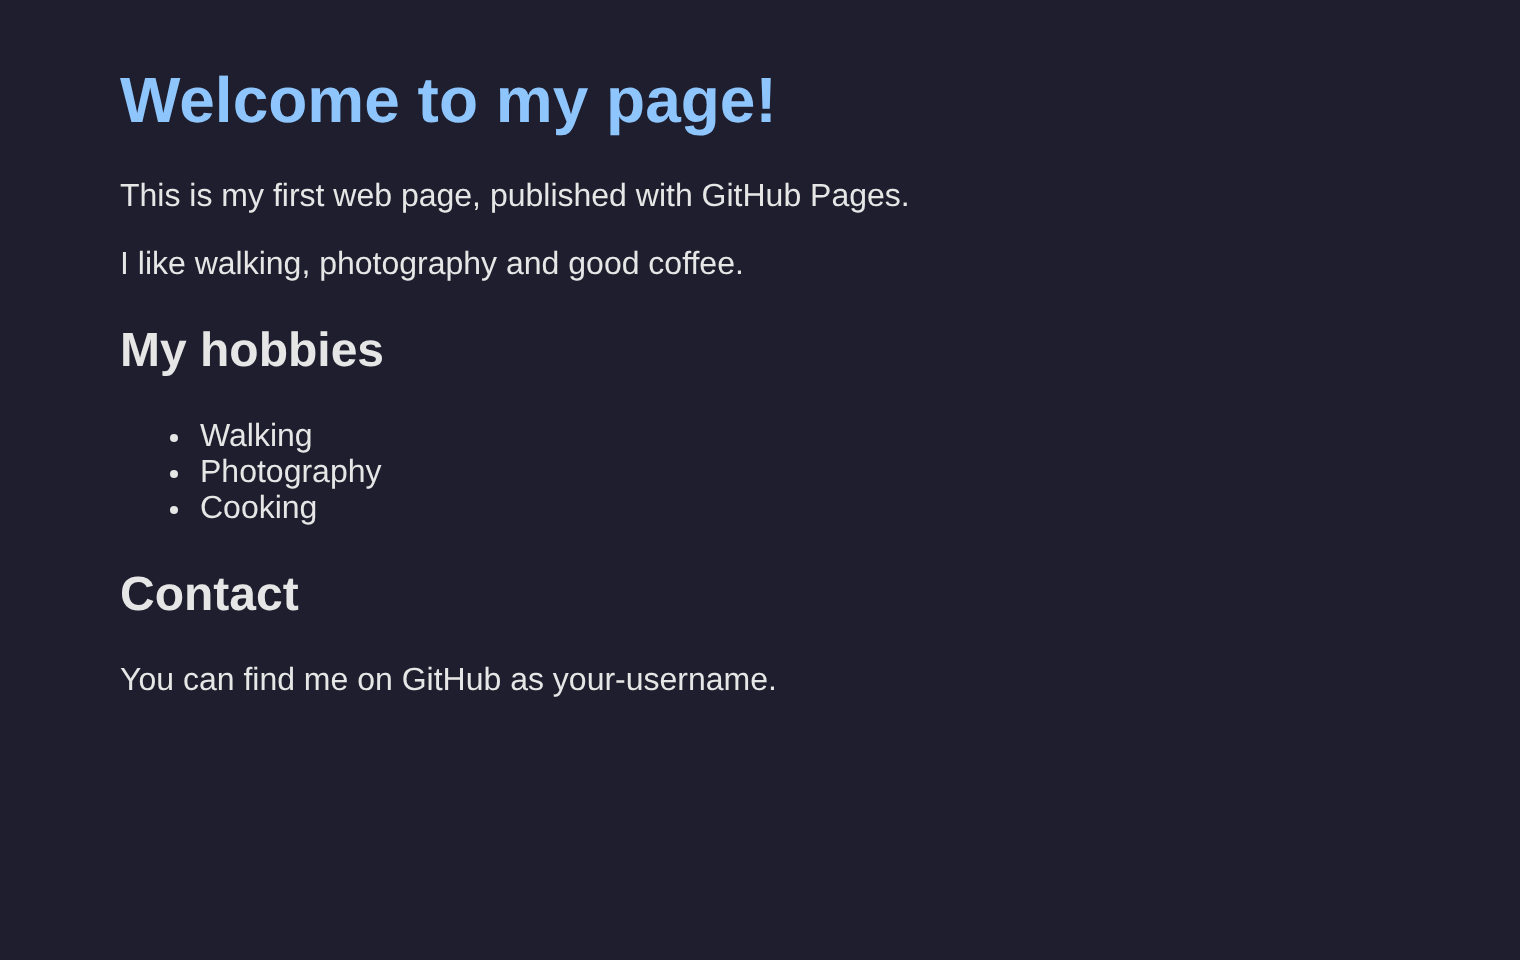
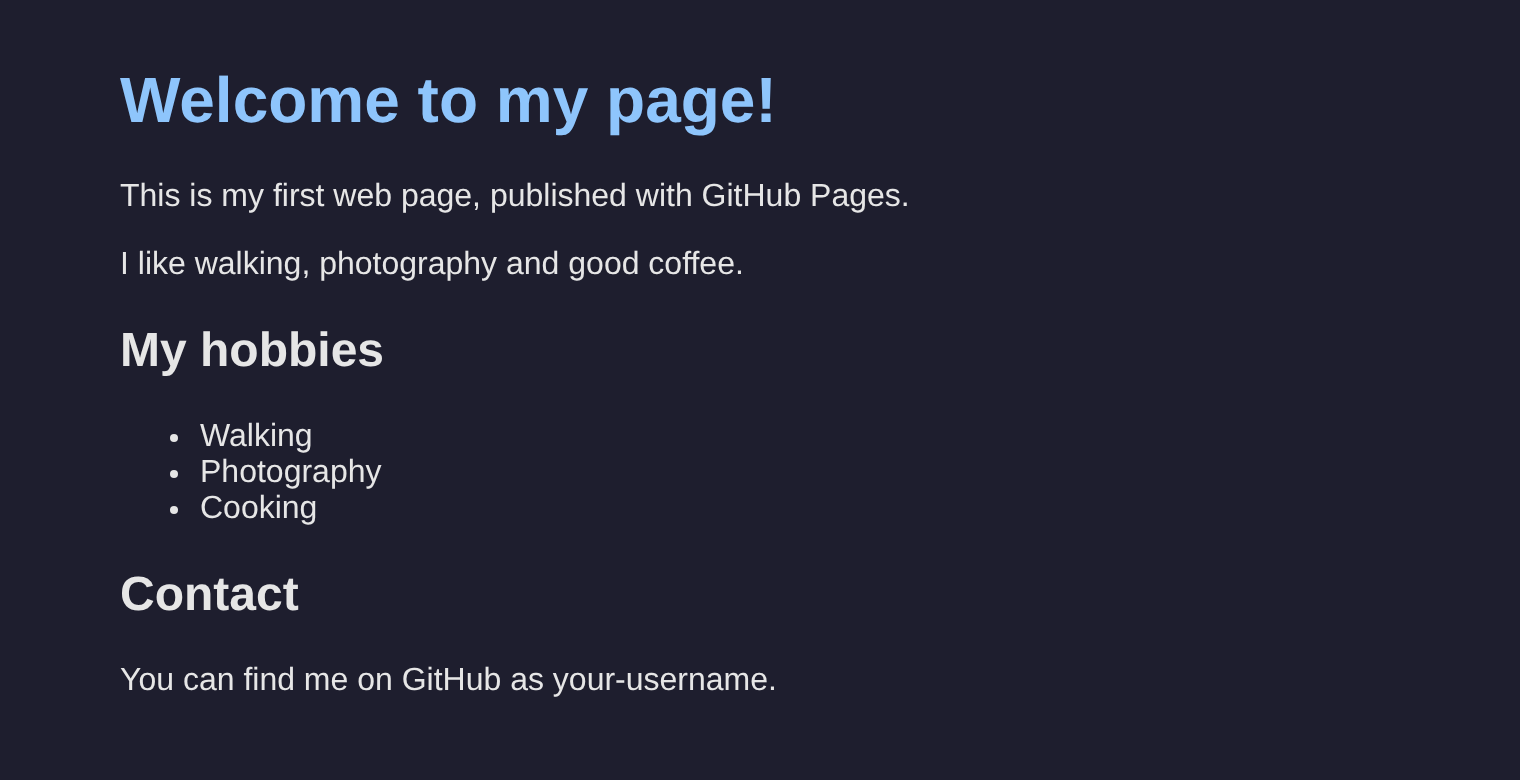
WIP: Git series checks, handover and translation guide
tools/check.mjs compares each Chinese page with the English one (blocks,
ids, figures, tabs, quiz answers) and checks links; notes/TRANSLATION.md
gives the rules and terms for the Chinese edition; HANDOVER.md explains
the tools. The troubleshooting examples run in a sandbox of their own;
Lesson 1 has a summary; status sections are coloured in any output.

Claude-Session: https://claude.ai/code/session_01KrzjB21B1GFMGN5fyNzMdb

Changed region(s): [[0.0618, 0.0615, 0.5875, 0.4], [0.0618, 0.4308, 0.4947, 0.8], [0.0618, 0.8615, 0.5257, 0.8923]]

diff --git a/tutorial-sources/git/tools/replay.py b/tutorial-sources/git/tools/replay.py
@@ -2,7 +2,7 @@
 
     python3 tools/replay.py              check: report each block whose output differs
     python3 tools/replay.py --update     write the real outputs into the English sources
-    python3 tools/replay.py --keep       keep the sandbox afterwards and print where it is
+    python3 tools/replay.py --keep       keep the sandboxes afterwards (/tmp/gitreplay, /tmp/gitreplay-trouble)
     python3 tools/replay.py --lessons 3-5  stop after lesson 5 (lessons always start from 2)
 
 What it runs, in this order, from src/en/lesson_02.md to the last lesson:
@@ -53,11 +53,11 @@ SHOWN_HOME = '/Users/you'
 
 
 class Sandbox:
-    def __init__(self, keep=False):
+    def __init__(self, keep=False, name='gitreplay'):
         # A fixed place, not a random temporary folder: `git pull` writes the remote's address
         # into its merge message, so the path must be the same on every run and every machine
-        # for the commit hashes to be.
-        self.base = os.environ.get('REPLAY_BASE', '/tmp/gitreplay')
+        # for the commit hashes to be. The lessons and the troubleshooting page each have their own.
+        self.base = os.path.join(os.environ.get('REPLAY_TMP', '/tmp'), name)
         shutil.rmtree(self.base, ignore_errors=True)
         os.makedirs(self.base)
         self.keep = keep
@@ -503,7 +503,7 @@ def main():
     # the troubleshooting page sets up each of its examples itself, in a sandbox of its own
     trouble = os.path.join(SRC, 'troubleshooting.md')
     if os.path.exists(trouble) and last >= 11:
-        box = Sandbox(keep=False)
+        box = Sandbox(keep=args.keep, name='gitreplay-trouble')
         try:
             box.next_day()
             replay_file(box, trouble, run)

diff --git a/tutorial-sources/git/notes/TRANSLATION.md b/tutorial-sources/git/notes/TRANSLATION.md
@@ -1,0 +1,116 @@
+# Translating the Git series into Simplified Chinese
+
+The Chinese edition is a faithful, fluent translation of the English one, for the same readers:
+complete beginners. It is not a summary: every step, explanation, box, table and quiz question is
+translated. It follows the AI series' `TRANSLATION.md` where this file does not say otherwise.
+
+## 1. What stays exactly as it is
+
+`node tools/check.mjs` compares each Chinese page with the English one and fails if these differ:
+
+- every ` ```terminal ` and ` ```file ` block, including its first line (`terminal norun`,
+  `file index.html check`, ...). Commands, Git's output, file contents: all byte-identical.
+  Git's own messages stay in English in the text too, when quoted in prose: write
+  “working tree clean”（工作区干净）, quoting the English and explaining it in Chinese;
+- every `<!-- replay: ... -->` comment;
+- every `## ... {#id}` id, and the order of the sections;
+- `::: figure id=...` and `::: widget name=...`, in the same order (the caption inside is
+  translated; for an `image=` figure, the `alt="..."` text is translated, `url=` is not);
+- the OS tab names: `::: tab Windows`, `::: tab macOS`, `::: tab Linux`;
+- the quiz: same questions in the same order, the same option marked `[x]`; questions, options and
+  explanations are translated;
+- the number of `::: trouble` boxes;
+- the front matter field `minutes`, and the number of `goals`.
+
+Links between the series' pages change language: `lesson_04_EN.html` becomes `lesson_04_ZH.html`,
+`troubleshooting_EN.html` becomes `troubleshooting_ZH.html`, `cheatsheet_EN.html` becomes
+`cheatsheet_ZH.html`. External links stay, except where an official Chinese version exists: the
+Pro Git book is `https://git-scm.com/book/zh/v2`.
+
+## 2. Labels on the screen
+
+Readers' screens show GitHub's website in English, and VS Code in English unless they installed
+the Chinese language pack. So:
+
+- keep the English label in bold, and give a Chinese gloss in full-width brackets the first time
+  it appears in a lesson: **New repository**（新建仓库）, **File**（文件）> **Open Folder...**（打开文件夹）.
+  After that, the English label alone;
+- quoted messages from GitHub or VS Code stay in English, with a translation the first time:
+  “Do you trust the authors of the files in this folder?”（你信任此文件夹中文件的作者吗？）
+
+## 3. Terms
+
+Use these everywhere. At a term's first use in a lesson, add the English in brackets:
+暂存区（staging area）. After that, Chinese only.
+
+| English | 中文 |
+|---|---|
+| repository | 仓库 |
+| commit (noun and verb) | 提交 |
+| snapshot | 快照 |
+| hash | 哈希值 |
+| branch | 分支 |
+| merge | 合并 |
+| merge commit | 合并提交 |
+| fast-forward | 快进 |
+| merge conflict | 合并冲突 |
+| working folder | 工作文件夹 |
+| staging area | 暂存区 |
+| untracked / tracked | 未跟踪 / 已跟踪 |
+| staged / modified | 已暂存 / 已修改 |
+| remote | 远程仓库 |
+| push | 推送 |
+| pull | 拉取 |
+| fetch | 获取 |
+| clone | 克隆 |
+| pull request | 拉取请求 |
+| fork | 复刻 |
+| collaborator | 协作者 |
+| review | 审查 |
+| undo | 撤销 |
+| revert (`git revert`) | 还原 |
+| reset (`git reset`) | 重置 |
+| amend (`--amend`) | 修改上一次提交 |
+| reflog | reflog（引用日志） |
+| ignore / `.gitignore` | 忽略 / `.gitignore` |
+| terminal | 终端 |
+| prompt | 提示符 |
+| command | 命令 |
+| folder / home folder | 文件夹 / 主文件夹 |
+| path | 路径 |
+| editor | 编辑器 |
+| sign in / authorise | 登录 / 授权 |
+| credential | 凭据 |
+| noreply address | noreply 地址 |
+| cheat sheet | 速查表 |
+| troubleshooting | 问题排查 |
+| glossary | 术语表 |
+
+Names stay in English: Git, GitHub, GitHub Pages, GitHub CLI, VS Code, Git Bash, Git Credential
+Manager, `main`, `origin`, `HEAD`, README, Markdown, HTML.
+
+## 4. Style
+
+- Natural, friendly Chinese for beginners, as a good Chinese tutorial would write it, not word for
+  word. Use 你. Keep the English edition's short sentences and direct instructions.
+- Full-width punctuation in Chinese text: ，。：；？！“”（）、. Half-width inside code, commands,
+  numbers and English words.
+- A space between Chinese characters and Latin letters or digits: 运行 `git status` 命令；第 3 课；
+  40 分钟. No space next to full-width punctuation.
+- Keyboard keys stay as `<kbd>Ctrl</kbd>` etc.
+- Lesson titles are short: "Your first repository" → 你的第一个仓库.
+- The page chrome (box labels such as 提示, 注意, 如果出了问题, buttons, "Lesson") is added by the
+  build; do not add it.
+- A Chinese page may add a short sentence of its own where Chinese readers need it (for example,
+  that Git may print some messages in Chinese on a Chinese system, or that they may write their
+  page in Chinese but should copy the English text first so their outputs match). It may not add
+  or remove blocks, boxes, tabs, figures or quiz questions.
+
+## 5. Check
+
+```bash
+node tools/check.mjs
+node tools/build.mjs
+```
+
+Fix every error that concerns your files.

diff --git a/tutorial-sources/git/HANDOVER.md b/tutorial-sources/git/HANDOVER.md
@@ -1,0 +1,86 @@
+# Handover: Git and GitHub, Step by Step
+
+A beginner's tutorial series in eleven lessons, in English and Simplified Chinese, published at
+`docs/tutorials/git/` (<https://wrwei.github.io/tutorials/git/>). Read this first, then
+`PLAN.md`, which is the design: audience, tools, the running example, the lessons, and the
+Markdown conventions.
+
+## Where things are
+
+| Path | What it is |
+|---|---|
+| `PLAN.md` | The design and the Markdown dialect |
+| `notes/FACTS.md` | Every fact about GitHub's website, VS Code, GitHub CLI, the Git for Windows installer and Git's messages, with the source it was checked against |
+| `notes/TRANSLATION.md` | Rules and terms for the Chinese edition |
+| `notes/reviews/` | Review reports |
+| `src/en/*.md`, `src/zh/*.md` | The pages: `index`, `lesson_01` to `lesson_11`, `cheatsheet`, `troubleshooting` |
+| `src/figures/_gen/figs.py` | Draws every figure, in both languages, into `src/figures/en/` and `src/figures/zh/` |
+| `src/images/final-page.png` | The finished web page, shown in Lesson 1 |
+| `src/widgets/git-playground.js` | The two interactive demos (Lesson 3: the three areas; Lesson 5: branches) |
+| `src/assets/` | Stylesheet and page script |
+| `replay/file-states.json` | Written by `tools/replay.py`, read by the build (what each file held before each file block, to highlight the lines to change) |
+| `tools/` | Replay, build, checks and screenshots (below) |
+
+## Setting up
+
+```bash
+cd tutorial-sources/git
+(cd tools && npm install)        # Node 18 or later
+```
+
+Python 3.10 or later and Git are needed for the replay. Chromium (or Chrome) is needed for
+screenshots and the widget test; set `CHROME_PATH` if it is not at `/opt/pw-browsers/chromium`.
+
+## The tools
+
+| Command | What it does |
+|---|---|
+| `python3 -I tools/replay.py` | Runs every command of Lessons 2 to 11 in order, in a sandbox, and the troubleshooting page's examples in another; reports every output that differs from the text |
+| `python3 -I tools/replay.py --update` | The same, and writes the real outputs into `src/en/`, carrying changed commit hashes into the prose of both languages. Run it twice when a command itself contains a hash |
+| `python3 -I tools/git256_audit.py OLD NEW` | Lists output lines whose Git message differs between two Git source trees (see `notes/FACTS.md`) |
+| `node tools/check.mjs` | Checks the sources: Chinese pages against English ones, links, figures, front matter |
+| `node tools/build.mjs [--out DIR]` | Builds the pages (default `out/git/`) |
+| `node tools/widget-test.mjs out/git [--lang zh]` | Clicks through both demos and checks what they print |
+| `node tools/shot.mjs PAGE --out shots/NAME` | Screenshots a page or an SVG, and reports page errors |
+| `python3 -I src/figures/_gen/figs.py` | Redraws the figures (figure 4.1 takes its hashes from Lesson 4's replayed output) |
+
+## How outputs stay true
+
+Every terminal output in the lessons and on the troubleshooting page comes from running the
+commands. The sandbox has a fixed clock, name and email, so hashes are the same on every run.
+GitHub is played by local bare repositories reached through a URL rewrite, with a hook that prints
+GitHub's "Create a pull request" hint; steps the reader does on GitHub's website are
+`<!-- replay: -->` comments using `gh-new-repo`, `gh-web-edit`, `gh-merge-pr` and
+`gh-delete-branch`.
+
+The build machine runs Git 2.43. `tools/git256.py` rewrites the messages that differ in Git 2.56,
+and the replay reproduces 2.56's creation of `origin/HEAD` on fetch. When the build machine has a
+newer Git, re-run the audit, drop the rules that no longer apply, and re-run
+`replay.py --update`.
+
+## Changing a lesson
+
+1. Edit `src/en/lesson_NN.md`. To change what the reader types, change the command; leave its
+   output as it is.
+2. `python3 -I tools/replay.py --update` (twice if a command contains a hash). Read the outputs
+   that changed and make the prose agree.
+3. If a hash shown in a figure changed, `python3 -I src/figures/_gen/figs.py`.
+4. Make the same change in `src/zh/lesson_NN.md`: copy the changed terminal and file blocks
+   exactly (`tools/check.mjs` compares them), and translate the prose.
+5. `node tools/check.mjs`, `node tools/build.mjs`, and look at the page.
+
+## Publishing
+
+```bash
+node tools/build.mjs --out ../../docs/tutorials/git
+```
+
+The card on `docs/tutorials/index.md` links to `git/index.html`. Then, from the repository root,
+`mkdocs build` must pass. Pushing to `main` publishes the site.
+
+## Keeping it current
+
+GitHub's website changes. When a reader reports a label that no longer matches, check it against
+the GitHub Docs source (`github/docs`, `content/` and `data/reusables/`), update the lesson and
+`notes/FACTS.md`, and redraw a figure if it shows that screen (figures 7.2 and 8.1 are sketches of
+GitHub's pages).

diff --git a/tutorial-sources/git/src/en/troubleshooting.md b/tutorial-sources/git/src/en/troubleshooting.md
@@ -509,7 +509,7 @@ printf '# My page, edited here\n' > README.md
 
 ```terminal
 $ git pull
-Updating 285d005..607f1ed
+Updating 58bdee4..93b851b
 error: Your local changes to the following files would be overwritten by merge:
 	README.md
 Please commit your changes or stash them before you merge.
@@ -569,11 +569,11 @@ Enumerating objects: 6, done.
 Counting objects: 100% (6/6), done.
 Delta compression using up to 8 threads
 Compressing objects: 100% (3/3), done.
-Writing objects: 100% (5/5), 533 bytes | 533.00 KiB/s, done.
+Writing objects: 100% (5/5), 538 bytes | 538.00 KiB/s, done.
 Total 5 (delta 1), reused 0 (delta 0), pack-reused 0 (from 0)
 remote: Resolving deltas: 100% (1/1), done.
 To https://github.com/your-username/new-site.git
-   ab25ec3..04b6628  main -> main
+   ab25ec3..6a02532  main -> main
 branch 'main' set up to track 'origin/main'.
 ```
 

diff --git a/tutorial-sources/git/src/en/lesson_01.md b/tutorial-sources/git/src/en/lesson_01.md
@@ -147,6 +147,15 @@ At the end of each lesson there is a summary, a table of the commands you used, 
 Click **Mark as done** at the bottom when you finish, and the list of lessons shows your progress
 (it is kept in your browser, nowhere else).
 
+## What you learned {#summary}
+
+- **Git** keeps the history of a project folder as a series of snapshots called **commits**, on
+  your own computer.
+- **GitHub** is a website that keeps a copy online, so you can back it up, share it, work with
+  others and publish it.
+- You will build a small web page, step by step, and put it online in Lesson 8.
+- Type every command yourself and compare what you see with the lesson.
+
 ## Check yourself {#quiz}
 
 ```quiz
